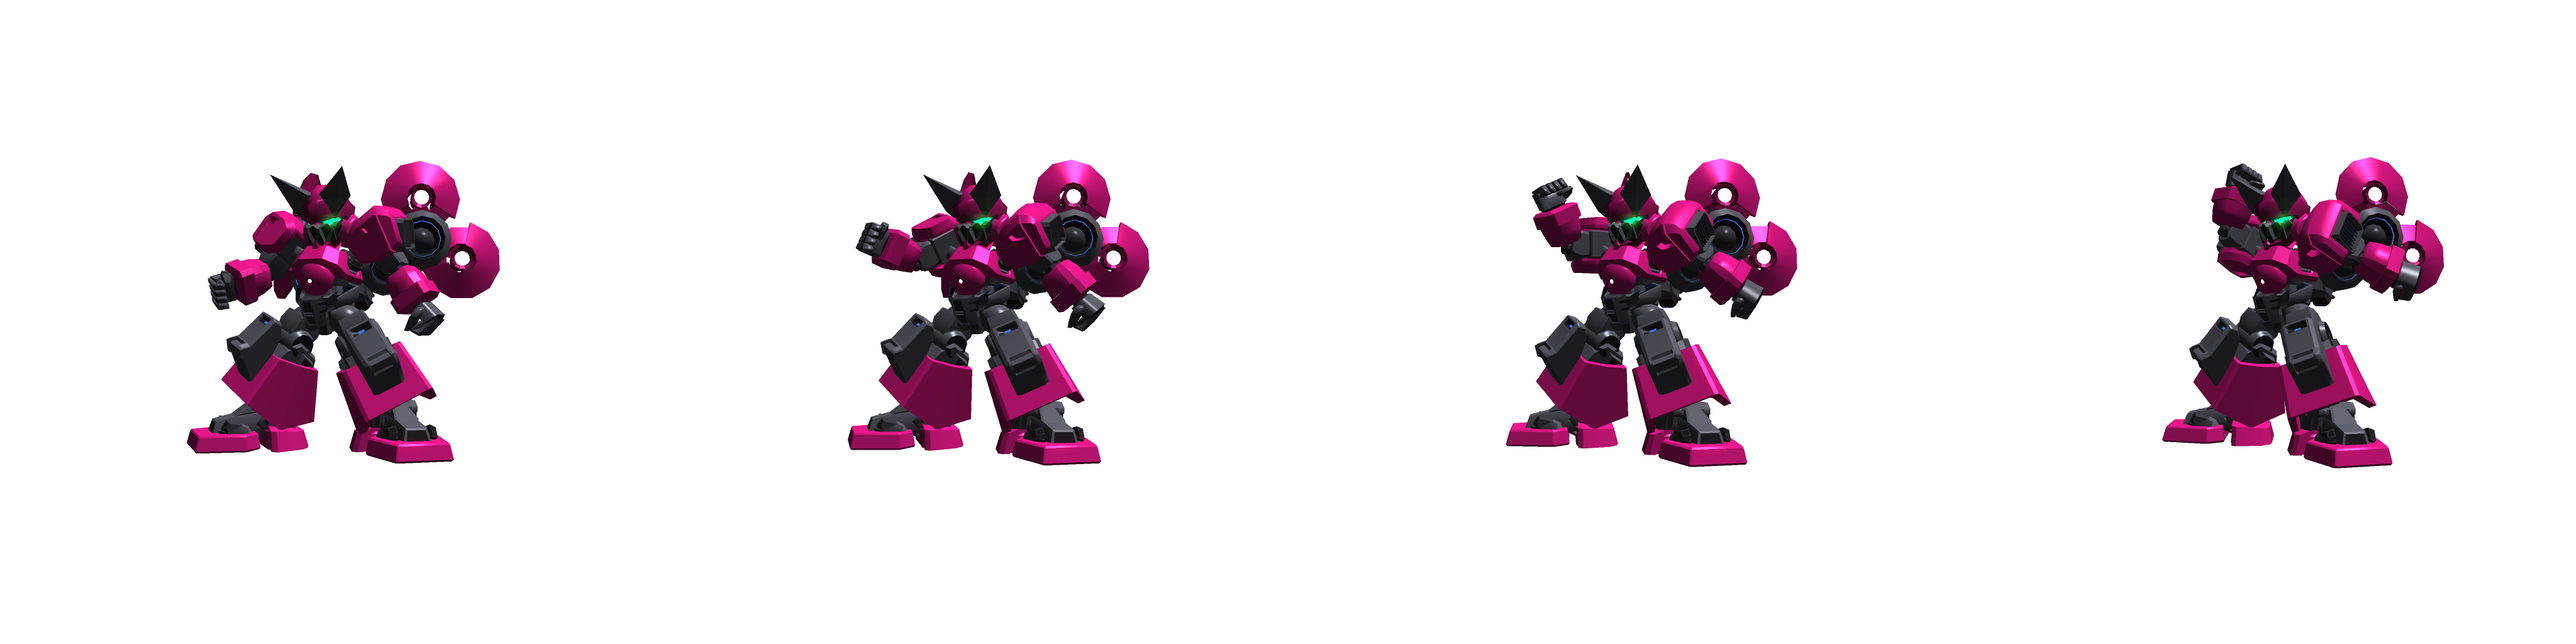
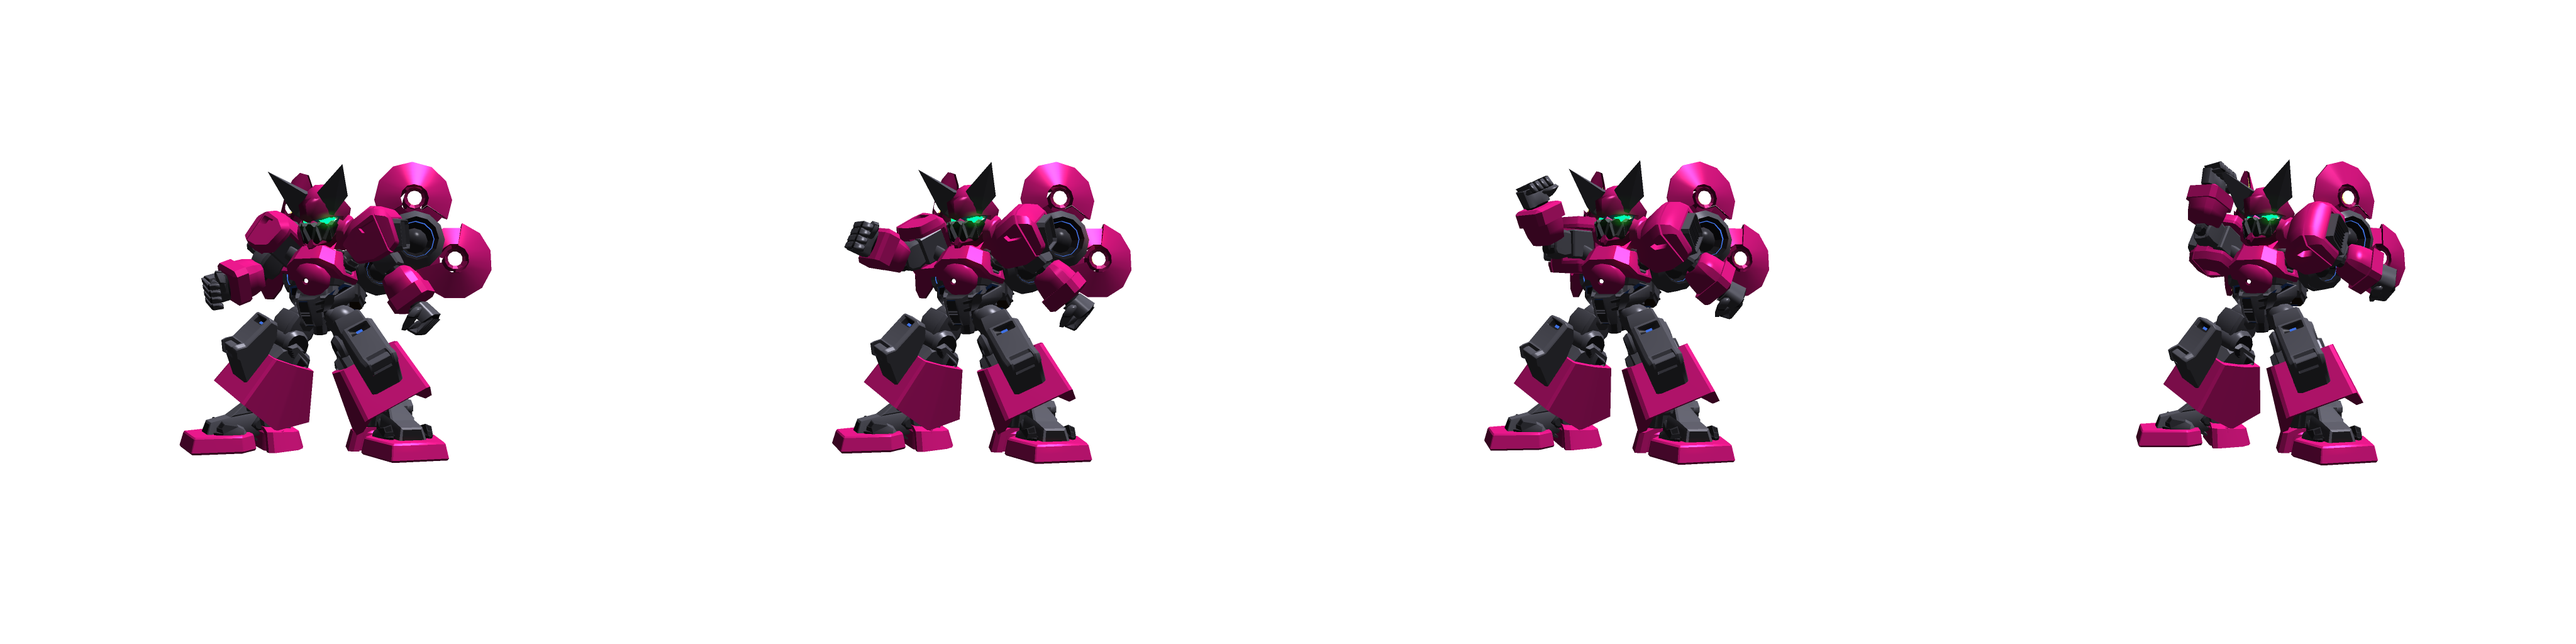
画像、アニメーションをさらに調整

diff --git a/src/js/game/td-scenes/battle/animation/state-history/battle/attack/lightning-dozer.js b/src/js/game/td-scenes/battle/animation/state-history/battle/attack/lightning-dozer.js
@@ -107,7 +107,7 @@ function attack(param: LightningDozerBattleAnimationParam<AttackResult>): Animat
       .chain(delay(2000))
       .chain(param.attackerSprite.hmToStand()),
 
-    delay(900)
+    delay(1000)
       .chain(
         param.defenderTD.damageIndicator.popUp(param.result.damage),
         param.defenderSprite.knockBack(),
@@ -131,7 +131,7 @@ function guard(param: LightningDozerBattleAnimationParam<Guard>): Animate {
       .chain(delay(2000))
       .chain(param.attackerSprite.hmToStand()),
 
-    delay(900)
+    delay(1000)
       .chain(
         param.defenderTD.damageIndicator.popUp(param.result.damage),
         param.defenderSprite.guard(),
@@ -155,7 +155,7 @@ function miss(param: LightningDozerBattleAnimationParam<Miss>): Animate {
       .chain(delay(1000))
       .chain(param.attackerSprite.hmToStand()),
 
-    delay(900)
+    delay(1000)
       .chain(param.defenderSprite.avoid())
       .chain(delay(2000))
       .chain(param.defenderSprite.avoidToStand()),
@@ -179,7 +179,7 @@ function down(param: LightningDozerBattleAnimationParam<DownResult>): Animate {
       .chain(delay(2000))
       .chain(param.attackerSprite.hmToStand()),
 
-    delay(900)
+    delay(1000)
       .chain(
         param.defenderTD.damageIndicator.popUp(param.result.damage),
         param.defenderSprite.down(),

diff --git a/src/js/game-object/armdozer/lightning-dozer/animation/hm-to-stand.js b/src/js/game-object/armdozer/lightning-dozer/animation/hm-to-stand.js
@@ -14,7 +14,7 @@ import {all} from "../../../../animation/all";
  */
 export function hmToStand(model: LightningDozerModel): Animate {
   return all(
-    tween(model.position, t => t.to({x: '+40'}, 400)),
+    tween(model.position, t => t.to({x: '+20'}, 400)),
 
     process(() => {
       model.animation.type = 'HM_TO_STAND';

diff --git a/src/js/game-object/armdozer/lightning-dozer/animation/charge.js b/src/js/game-object/armdozer/lightning-dozer/animation/charge.js
@@ -15,5 +15,5 @@ export function charge(model: LightningDozerModel): Animate {
   return process(() => {
     model.animation.type = 'HM_CHARGE';
     model.animation.frame = 0;
-  }).chain(tween(model.animation, t => t.to({frame: 1}, 200)));
+  }).chain(tween(model.animation, t => t.to({frame: 1}, 300)));
 }

diff --git a/src/js/game-object/armdozer/lightning-dozer/animation/arm-hammer.js b/src/js/game-object/armdozer/lightning-dozer/animation/arm-hammer.js
@@ -18,6 +18,6 @@ export function armHammer(model: LightningDozerModel): Animate {
     model.animation.frame = 0;
   }).chain(all(
     tween(model.animation, t => t.to({frame: 1}, 150)),
-    tween(model.position, t => t.to({x: '-40'}, 150))
+    tween(model.position, t => t.to({x: '-20'}, 150))
   ));
 }
